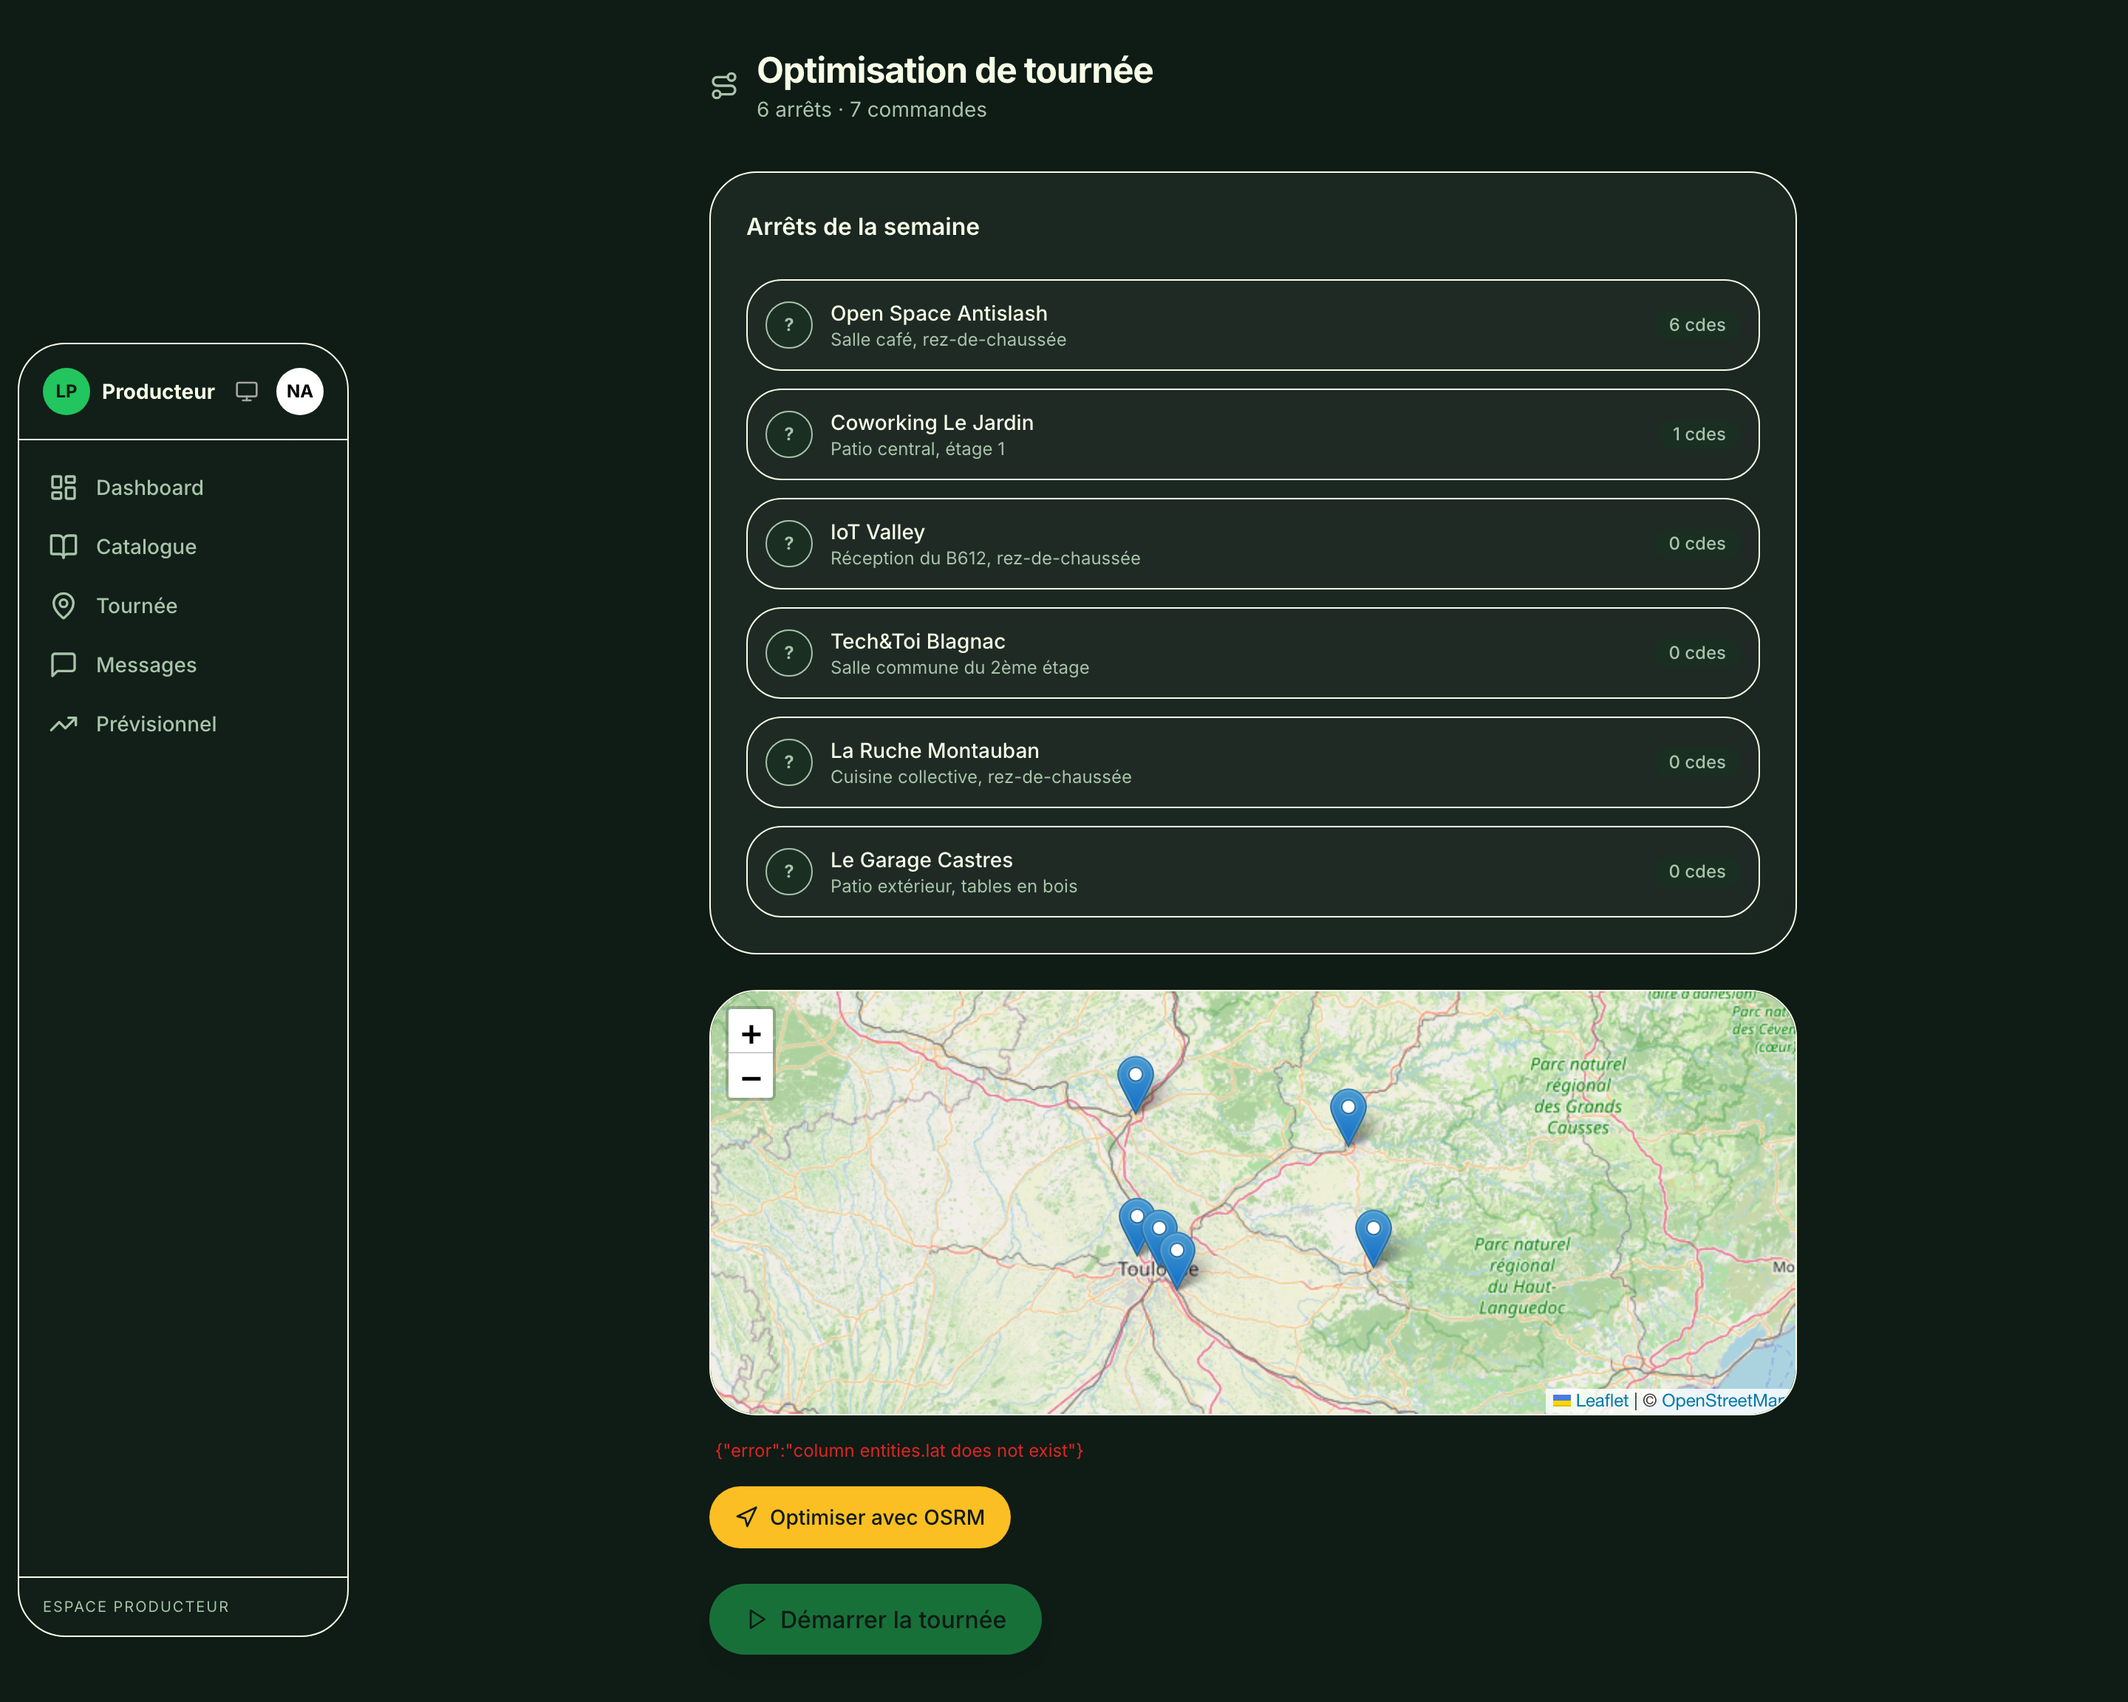
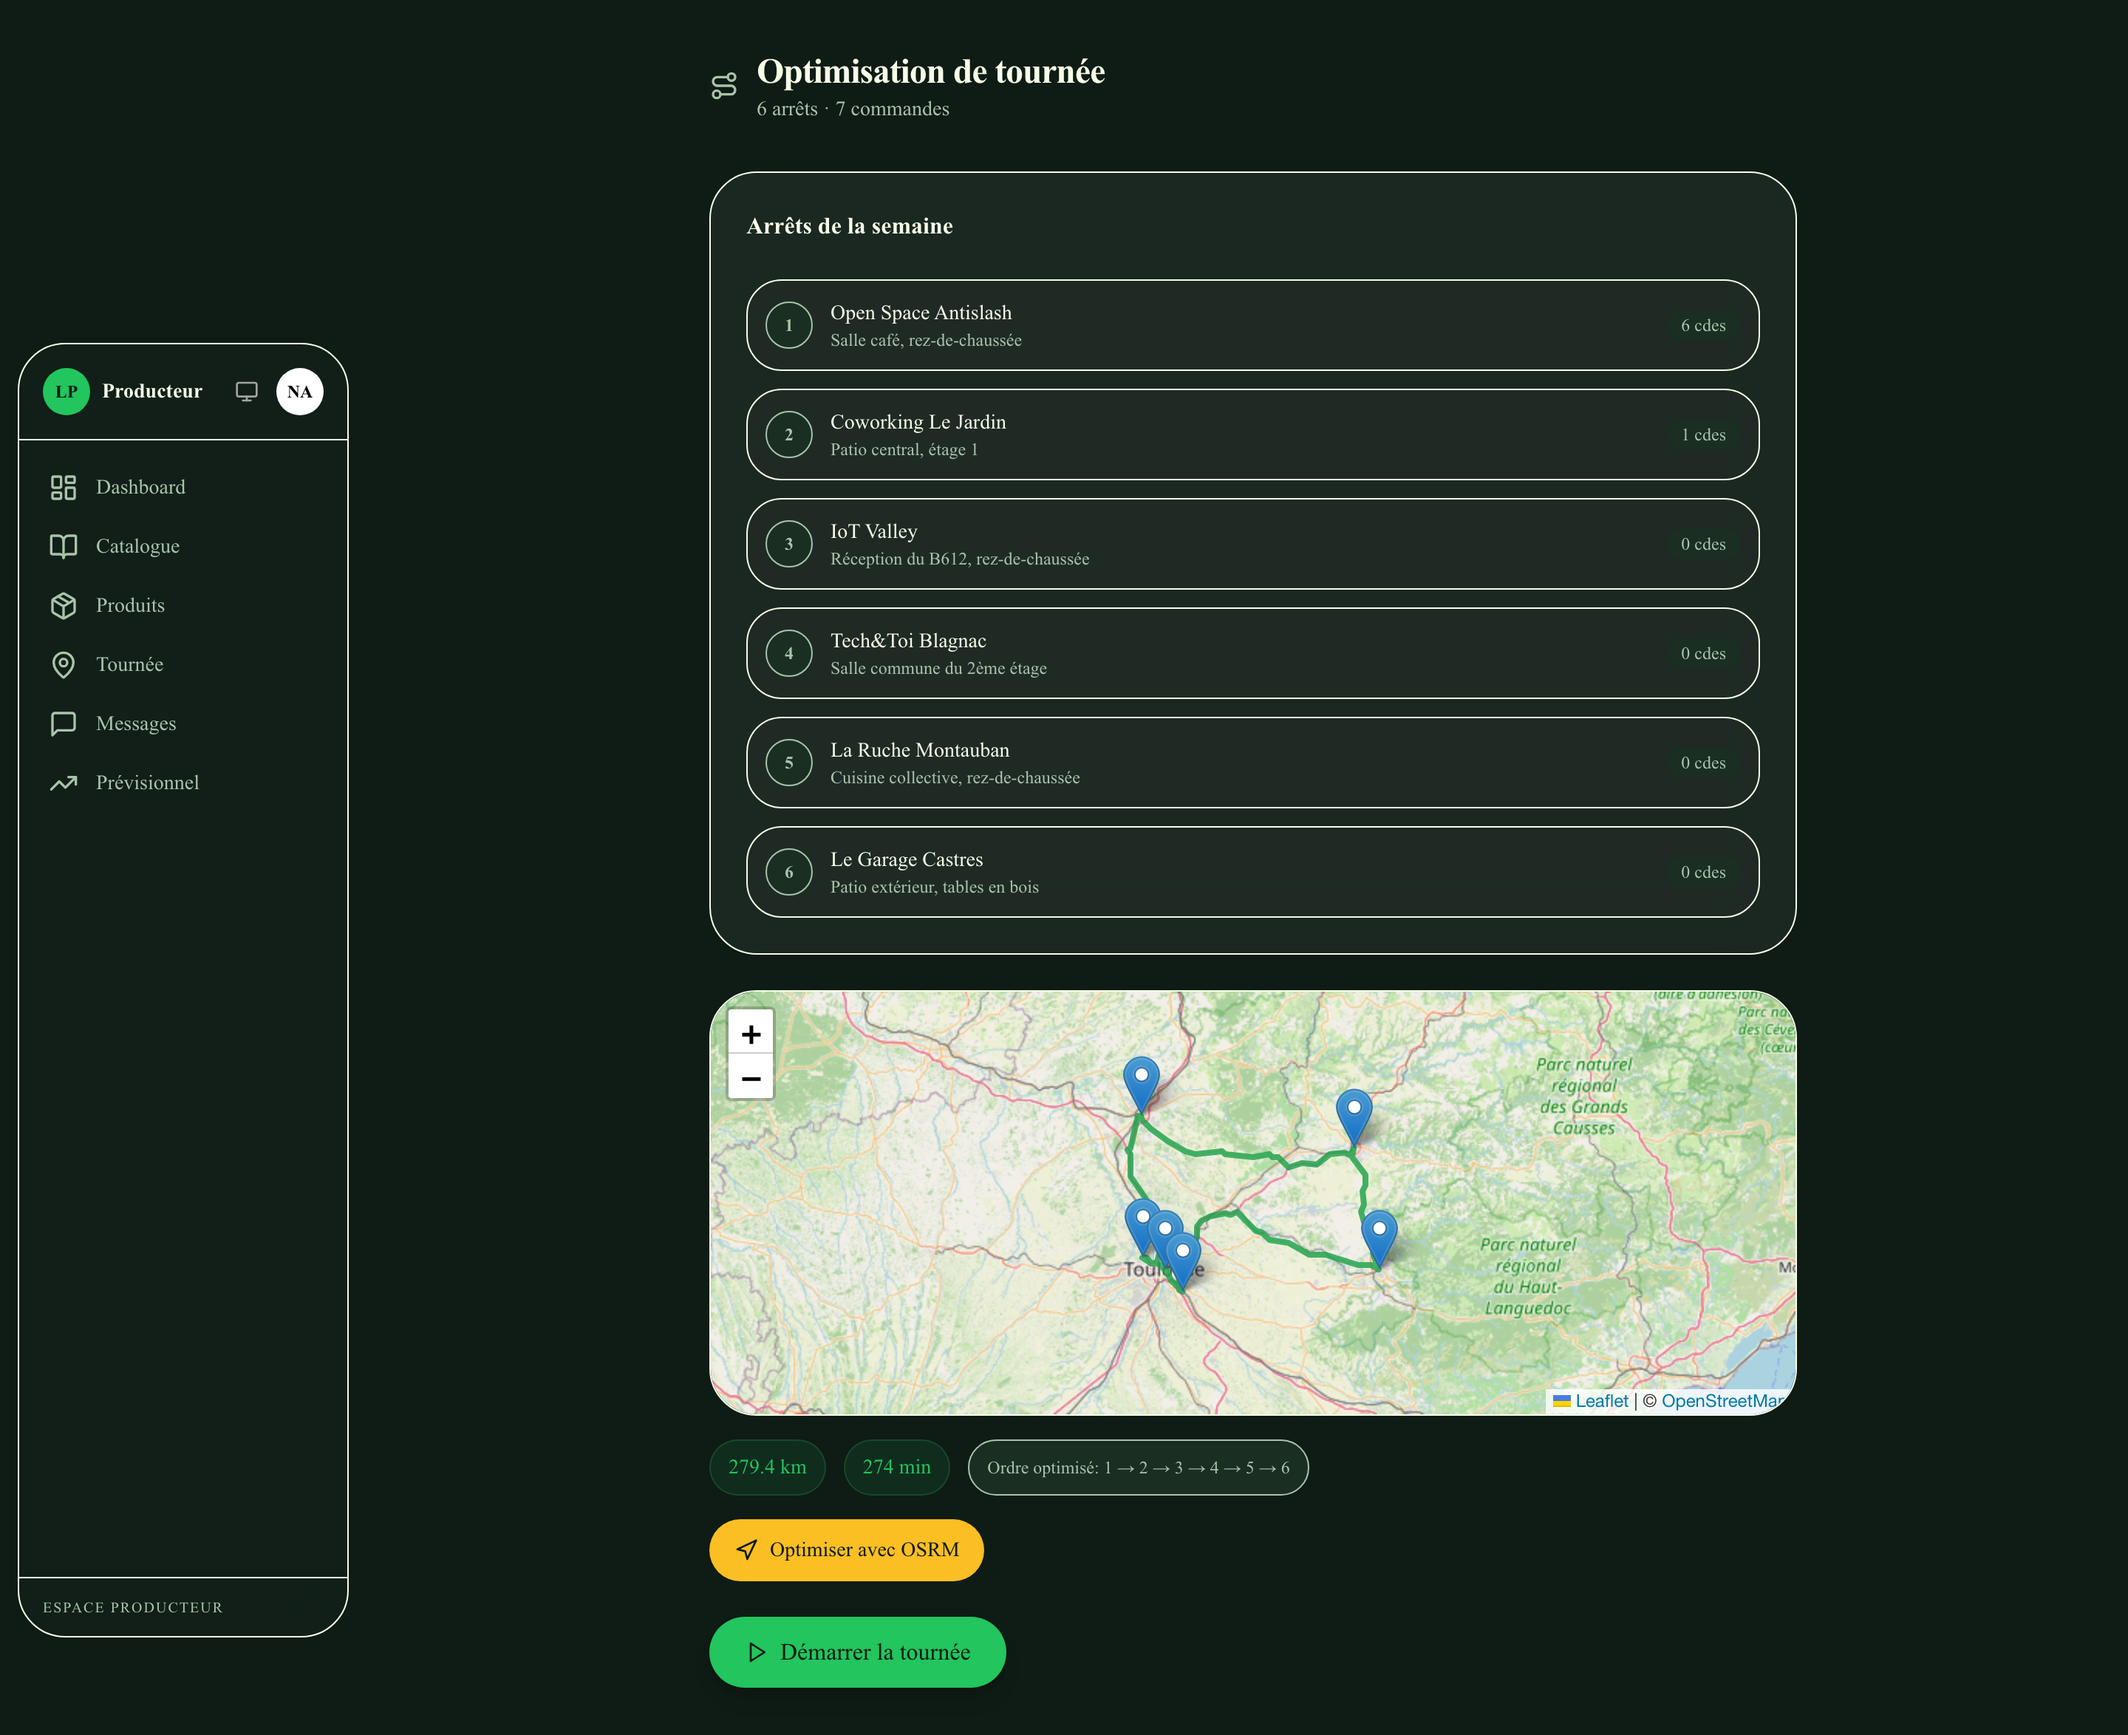
🐛 fix(build): Inter self-hosté via @fontsource-variable + cleanup ESLint — build Docker stable

diff --git a/apps/web/app/layout.tsx b/apps/web/app/layout.tsx
@@ -1,15 +1,13 @@
 import type { Metadata, Viewport } from 'next';
-import { Inter } from 'next/font/google';
 import { NextIntlClientProvider } from 'next-intl';
 import { getLocale, getMessages } from 'next-intl/server';
 import { ThemeProvider } from '@/components/layout/ThemeProvider';
+import '@fontsource-variable/inter';
 import './globals.css';
 
-const inter = Inter({
-  subsets: ['latin'],
-  variable: '--font-inter',
-  display: 'swap',
-});
+// Self-hosted Inter (package @fontsource-variable/inter) — aucune dépendance Google Fonts,
+// build reproductible même hors ligne
+const inter = { variable: 'font-sans' };
 
 export const metadata: Metadata = {
   title: 'LesPaniersDe — Circuits courts, retrait en entreprise',

diff --git a/apps/web/app/(producer)/producer/products/ProductsTableClient.tsx b/apps/web/app/(producer)/producer/products/ProductsTableClient.tsx
@@ -7,7 +7,6 @@ import { zodResolver } from '@hookform/resolvers/zod';
 import { z } from 'zod';
 import { Card, CardContent, CardHeader, CardTitle } from '@/components/ui/card';
 import { Button } from '@/components/ui/button';
-import { Input } from '@/components/ui/input';
 import { Label } from '@/components/ui/label';
 import {
   Dialog,

diff --git a/README.md b/README.md
@@ -34,6 +34,20 @@
 |---|---|---|
 | ![Producer dashboard](docs/screenshots/30-producer-dashboard.png) | ![Producer forecast](docs/screenshots/31-producer-forecast.png) | ![Producer catalog](docs/screenshots/32-producer-catalog.png) |
 
+### Optimisation de tournée (OSRM + OpenStreetMap)
+Tournée hebdo auto-optimisée sur 6 arrêts Occitanie : **Toulouse · Labège (IoT Valley) · Blagnac · Castres · Albi · Montauban**.
+
+![Tournée producteur optimisée OSRM](docs/screenshots/33-producer-route-osrm.png)
+
+### Mobile (iPhone 13)
+| Landing | Shop | Stats & badges |
+|---|---|---|
+| ![Mobile landing](docs/screenshots/mobile-01-landing.png) | ![Mobile shop](docs/screenshots/mobile-10-shop.png) | ![Mobile stats](docs/screenshots/mobile-13-stats.png) |
+
+| Admin | Forecast producteur | Produits producteur |
+|---|---|---|
+| ![Mobile admin](docs/screenshots/mobile-20-admin.png) | ![Mobile forecast](docs/screenshots/mobile-31-forecast.png) | ![Mobile products](docs/screenshots/mobile-33-products.png) |
+
 ---
 
 ## Fonctionnalités
